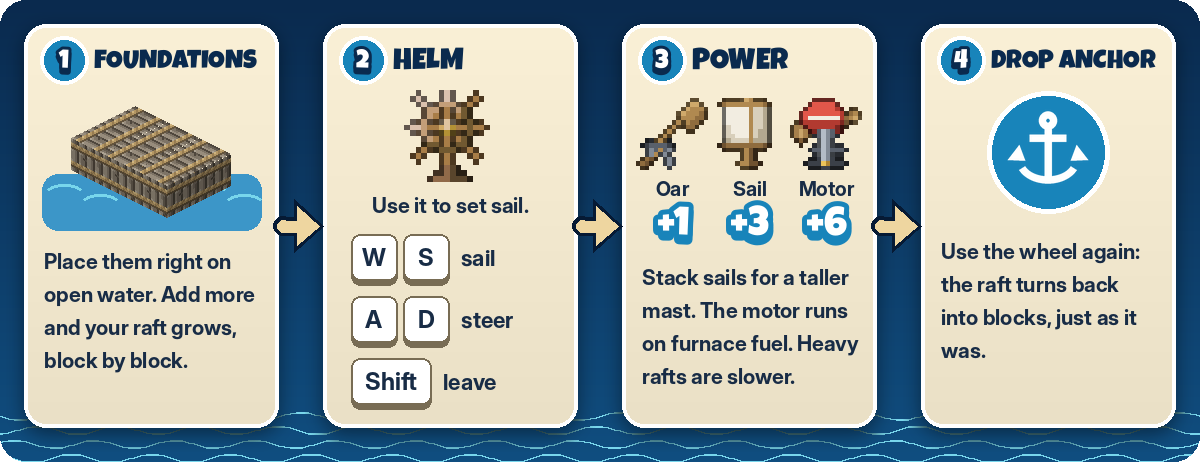
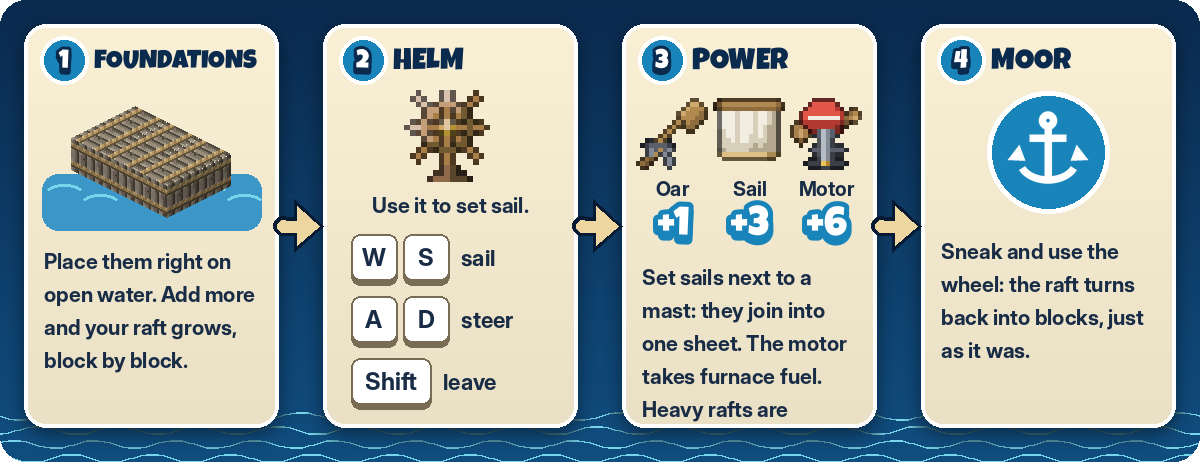
CurseForge page: the raft flow picture with mooring and joined sails (3.2)
Claude-Session: https://claude.ai/code/session_01Fk46dch3whoyNRMPgRGf6J

diff --git a/docs/curseforge/description.html b/docs/curseforge/description.html
@@ -18,7 +18,7 @@
 <p style="text-align:center">Out at sea you live on what the current brings: hook the debris, purify water, grill your catch and farm on deck. Bruce the shark bites the edges of your raft, so reinforce them.</p>
 <p>&nbsp;</p>
 <p><img src="https://raw.githubusercontent.com/Kasax007/Kasax_Raft_Mod/26.3/docs/curseforge/img/strip_shipwright.png" alt="Build your own raft"></p>
-<p style="text-align:center"><img src="https://raw.githubusercontent.com/Kasax007/Kasax_Raft_Mod/26.3/docs/curseforge/img/flow_raft.png" alt="Your own raft: foundations, helm, power, drop anchor"></p>
+<p style="text-align:center"><img src="https://raw.githubusercontent.com/Kasax007/Kasax_Raft_Mod/26.3/docs/curseforge/img/flow_raft.png" alt="Your own raft: foundations, helm, power, moor"></p>
 <p style="text-align:center"><img src="https://raw.githubusercontent.com/Kasax007/Kasax_Raft_Mod/26.3/docs/curseforge/img/raft_31.jpg" alt="A raft built from blocks, sailing"></p>
 <p style="text-align:center">Build a raft block by block and sail the whole thing like a ship. Chests, furnaces, farms and redstone keep working at sea, and the ready-made Expedition Raft is still there too.</p>
 <p style="text-align:center"><strong>New in 3.2:</strong> stack a mast and join sails into one big sheet, drop the anchor with a winch, fuel the motor through its own screen and watch the wheel turn as you steer. Sneak and use the wheel to moor.</p>

diff --git a/docs/curseforge/make_images31.py b/docs/curseforge/make_images31.py
@@ -540,7 +540,7 @@ def flow_start(name='flow_start.png'):
 
 # ----------------------------------------------------------------------------------------------- flow: your own raft
 def flow_raft(name='flow_raft.png'):
-    """Foundations, helm and keys, power, anchor (vessel module: VesselEntity power 1/3/6, changelog 3.1.0)."""
+    """Foundations, helm and keys, power, mooring (vessel module: VesselEntity power 1/3/6, changelogs 3.1.0 and 3.2.0)."""
     M, gapx, ch = 24, 44, 404
     n = 4
     cw = (W - 2 * M - (n - 1) * gapx) // n
@@ -589,11 +589,11 @@ def flow_raft(name='flow_raft.png'):
         c3.alpha_composite(pic, (int(cx - pic.width / 2), 74))
         d3.text((cx, 164), lab, font=small(20), fill=INK, anchor='mm')
         outlined(d3, (cx, 202), val, font(40), fill=WHITE, stroke=5, stroke_fill=SEA, anchor='mm')
-    para(d3, (20, 240), 'Stack sails for a taller mast. The motor runs on furnace fuel. Heavy rafts are slower.',
+    para(d3, (20, 240), 'Set sails next to a mast: they join into one sheet. The motor takes furnace fuel. Heavy rafts are slower.',
          small(21), cw - 36)
     cards.append(c3)
     # 4 anchor
-    c4 = icon_card(cw, ch, 4, 'DROP ANCHOR')
+    c4 = icon_card(cw, ch, 4, 'MOOR')
     d4 = ImageDraw.Draw(c4)
     r = 56
     cx, cy = cw // 2, 128
@@ -601,7 +601,7 @@ def flow_raft(name='flow_raft.png'):
     d4.ellipse([cx - r, cy - r, cx + r, cy + r], fill=SEA)
     an = anchor_glyph(84)
     c4.alpha_composite(an, (cx - 42, cy - 44))
-    para(d4, (20, 214), 'Use the wheel again: the raft turns back into blocks, just as it was.', small(21), cw - 36)
+    para(d4, (20, 214), 'Sneak and use the wheel: the raft turns back into blocks, just as it was.', small(21), cw - 36)
     cards.append(c4)
     x = M
     xs = []
